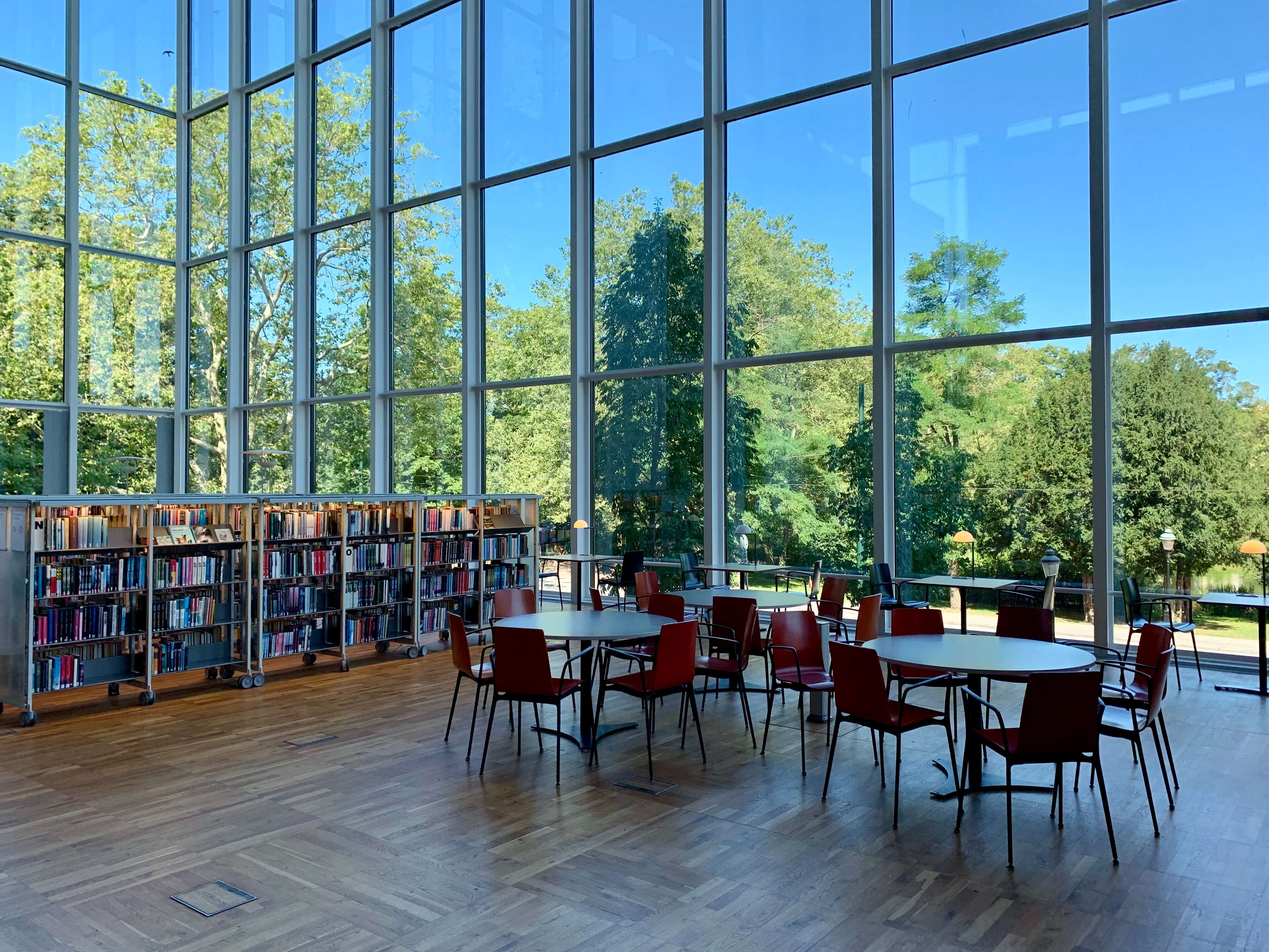
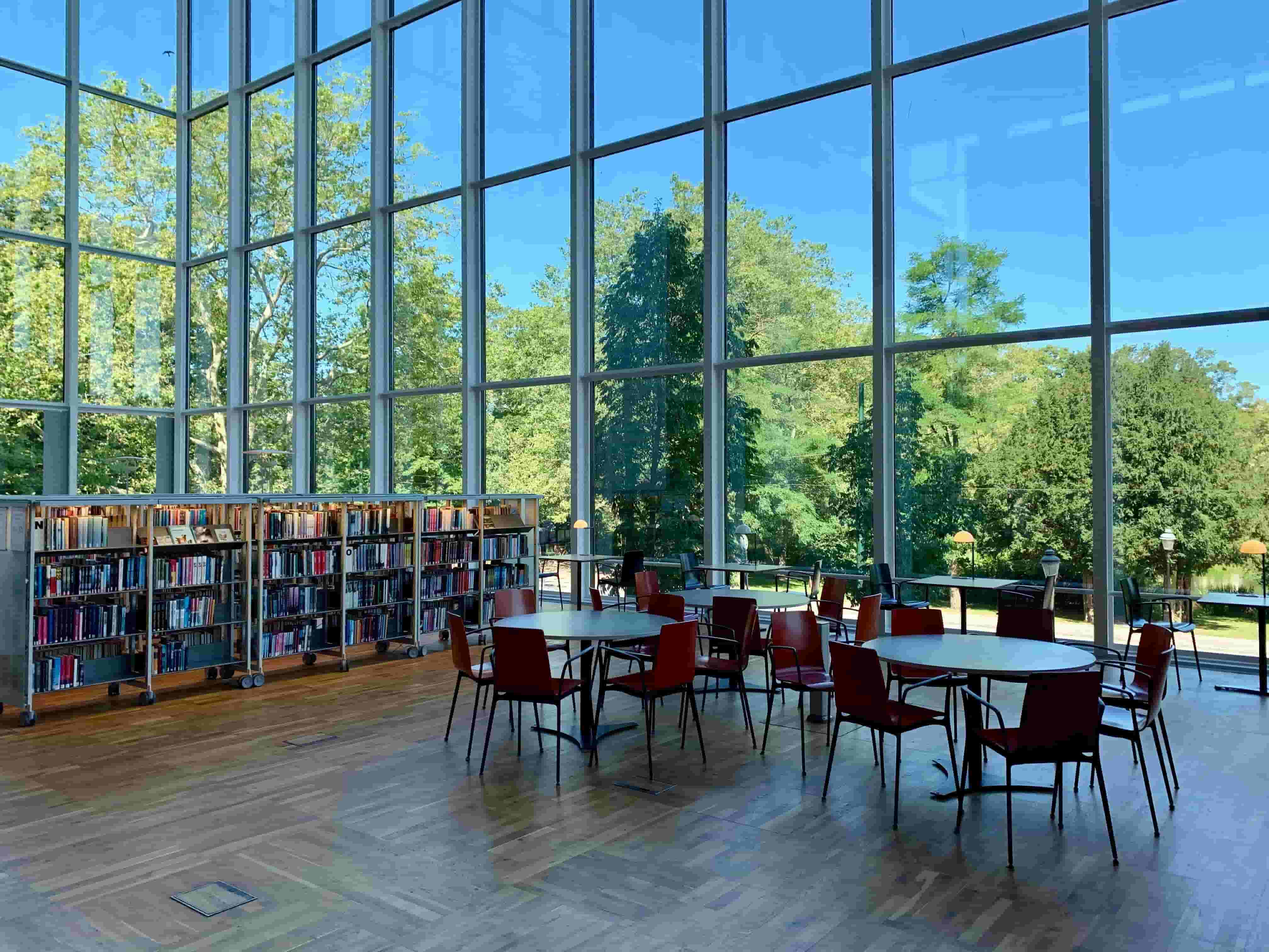
Compressing again images jtrons for performance

diff --git a/index.html b/index.html
@@ -103,7 +103,7 @@
       <!-- Jumbotron with a call to action btn -->
       <div class="jumbotron jumbotron-fluid bg-dark">
          <div class="mid-jumbotron-background">
-            <img src="assets/images/publications/books.jpg" class="blur " alt="jumbotron background books">
+            <img src="assets/images/index/jtron_mpage_index.jpg" class="blur " alt="jumbotron background books">
          </div>
          <div class="mid-container text-white">
             <h2 class="display-4">Welcome to the Campus!</h2>
